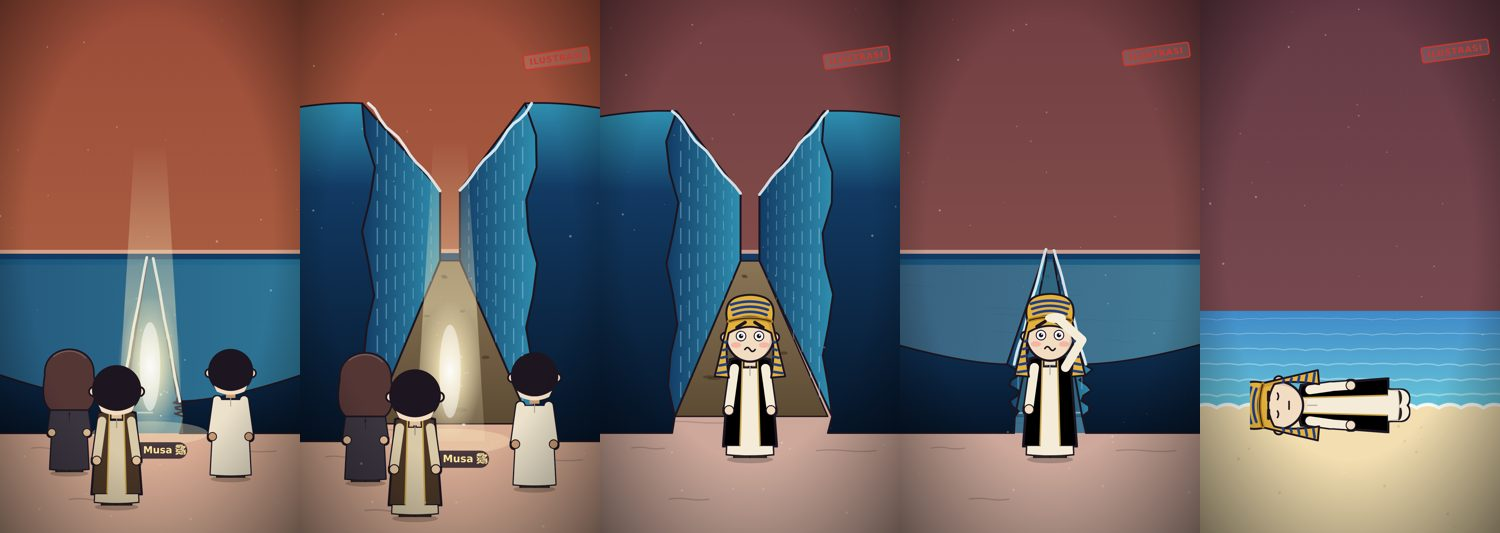
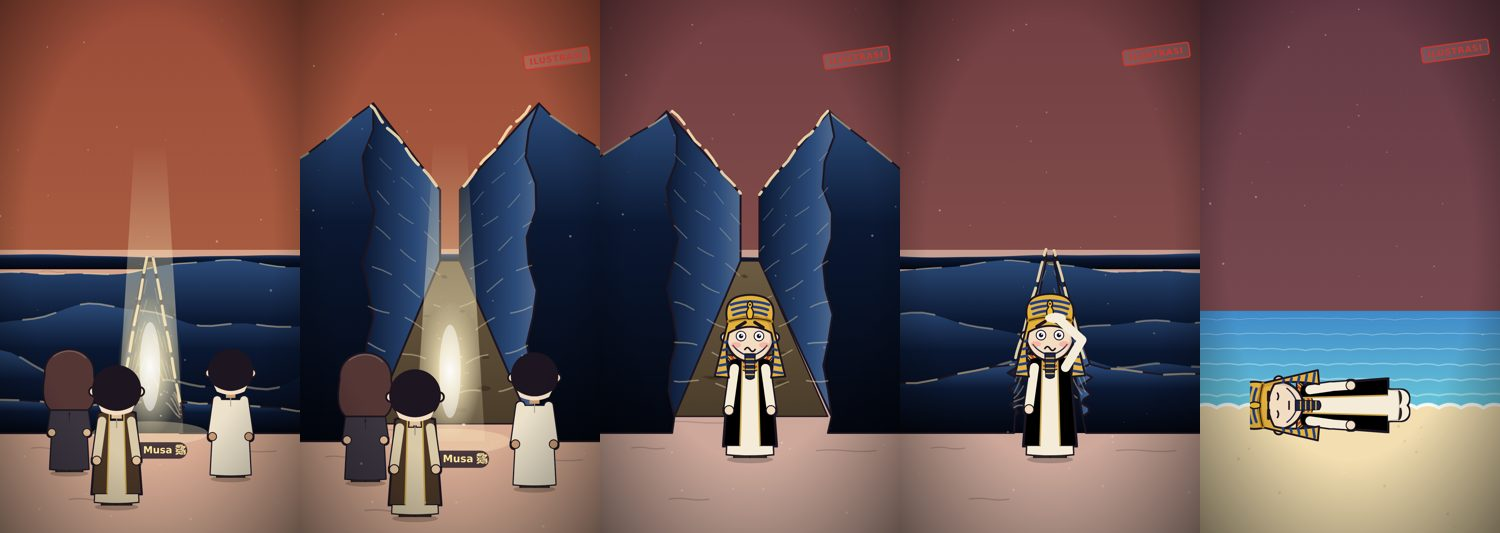
Firaun: laut bergaya ombak Nuh, kobra dahi, janggut upacara, kalung usekh
Claude-Session: https://claude.ai/code/session_013dPu6vGiEKgiUmxuK2ZYkK

diff --git a/mesin-video/papan/cerita.js b/mesin-video/papan/cerita.js
@@ -486,23 +486,27 @@
         const f = (xx) => yy - a * (0.62 * Math.sin(xx / L + t * sp + ph) + 0.28 * Math.sin(xx / (L * 0.41) - t * sp * 1.6 + ph * 2) + 0.1 * Math.sin(xx / (L * 0.17) + t * 2.3));
         let dd = `M -1400 ${f(-1400).toFixed(1)}`; for (let xx = -1360; xx <= 1400; xx += 40) dd += ` L ${xx} ${f(xx).toFixed(1)}`;
         g += `<path d="${dd} L 1400 2600 L -1400 2600 Z" fill="url(#${id})"/><path d="${dd}" stroke="${o.buih || "#ffe9b8"}" stroke-width="${5 + i * 1.5}" fill="none" opacity="${(0.55 - i * 0.08) * v(o.kilap, t, d, 1)}" stroke-linecap="round" stroke-dasharray="${90 + i * 30} ${70 + i * 25}" stroke-dashoffset="${(t * 40 * sp).toFixed(1)}"/>`; }
-    } else if (j === "laut_terbelah") { // laut terbelah dua (QS 26:63): lorong dasar laut kering di antara dua dinding air "laksana gunung", dilihat dari pangkal lorong; (0,0) = tengah pangkal lorong. belah 0-1 (0 = laut rata, 1 = terbelah penuh; turunkan lagi untuk dinding runtuh menutup), tinggi = tinggi dinding px di depan (bawaan 1100), lebar = lebar lorong di depan px (bawaan 560), jauh = jarak ke ujung lorong px (bawaan 560), warna [muka, dalam]
-      const bl = v(o.belah, t, d, 1), e = bl * bl * (3 - 2 * bl), Ht = (o.tinggi || 1100) * e, W2 = ((o.lebar || 560) / 2) * (0.35 + 0.65 * e), D = o.jauh || 560, w2 = 34 * (0.3 + 0.7 * e), Hj = Ht * 0.22, ca = o.warna || ["#123a63", "#2f8fb0"], id = "lt" + Math.round(x) + "_" + Math.round(y), R = rng(o.seed || 5);
-      g = `<defs><linearGradient id="${id}m" x1="0" y1="0" x2="0" y2="1"><stop offset="0" stop-color="${ca[1]}"/><stop offset=".25" stop-color="${ca[0]}"/><stop offset="1" stop-color="#06162a"/></linearGradient><linearGradient id="${id}d" x1="0" y1="0" x2="1" y2="0"><stop offset="0" stop-color="${ca[0]}"/><stop offset="1" stop-color="${ca[1]}"/></linearGradient><linearGradient id="${id}p" x1="0" y1="0" x2="0" y2="1"><stop offset="0" stop-color="#8a7556"/><stop offset="1" stop-color="#5c4a33"/></linearGradient></defs>`;
-      g += `<rect x="-1500" y="${-D - 26}" width="3000" height="40" fill="${ca[0]}"/>`; // laut di kejauhan, di ujung lorong
+    } else if (j === "laut_terbelah") { // laut terbelah dua (QS 26:63), gaya air sama dengan ombak kisah Nuh: lorong dasar laut kering di antara dua dinding air "laksana gunung", dilihat dari pangkal lorong; (0,0) = tengah pangkal lorong. belah 0-1 (0 = laut berombak rata, 1 = terbelah penuh; turunkan lagi = air runtuh menutup), tinggi = tinggi dinding px di depan (bawaan 1100), lebar = lebar lorong di depan (bawaan 560), jauh = jarak ke ujung lorong (bawaan 560), warna [atas, bawah], buih
+      const bl = v(o.belah, t, d, 1), e = bl * bl * (3 - 2 * bl), Ht = (o.tinggi || 1100) * e, W2 = ((o.lebar || 560) / 2) * (0.35 + 0.65 * e), D = o.jauh || 560, w2 = 34 * (0.3 + 0.7 * e), Hj = Ht * 0.22;
+      const ca = o.warna || ["#2b4a78", "#0b1832"], bu = o.buih || "#ffe9b8", id = "lt" + Math.round(x) + "_" + Math.round(y), R = rng(o.seed || 5);
+      const gel = (xx, ph, a, L, sp) => a * (0.62 * Math.sin(xx / L + t * sp + ph) + 0.28 * Math.sin(xx / (L * 0.41) - t * sp * 1.6 + ph * 2) + 0.1 * Math.sin(xx / (L * 0.17) + t * 2.3)); // rumus gelombang ombak Nuh
+      g = `<defs><linearGradient id="${id}a" x1="0" y1="0" x2="0" y2="1"><stop offset="0" stop-color="${ca[0]}"/><stop offset=".35" stop-color="${ca[1]}"/><stop offset="1" stop-color="#03060f"/></linearGradient><linearGradient id="${id}d" x1="0" y1="0" x2="1" y2="0"><stop offset="0" stop-color="${ca[1]}"/><stop offset=".7" stop-color="${ca[0]}"/><stop offset="1" stop-color="${warna(ca[0], "#ffffff", 0.18)}"/></linearGradient><linearGradient id="${id}p" x1="0" y1="0" x2="0" y2="1"><stop offset="0" stop-color="#6d5c43"/><stop offset="1" stop-color="#4a3c2a"/></linearGradient></defs>`;
+      let jauh = `M -1500 ${(-D - 20 + gel(-1500, 1, 8, 260, 0.8)).toFixed(1)}`; for (let xx = -1460; xx <= 1500; xx += 40) jauh += ` L ${xx} ${(-D - 20 + gel(xx, 1, 8, 260, 0.8)).toFixed(1)}`;
+      g += `<path d="${jauh} L 1500 ${-D + 30} L -1500 ${-D + 30} Z" fill="url(#${id}a)"/>`; // laut di ujung lorong
       g += `<path d="M ${-W2} 0 L ${-w2} ${-D} L ${w2} ${-D} L ${W2} 0 Z" fill="url(#${id}p)" stroke="${INK}" stroke-width="5" stroke-linejoin="round"/>`; // dasar laut yang kering
-      for (let i = 0; i < 9; i++) { const f = R(), yy = -D * f, ww = W2 + (w2 - W2) * f; g += `<ellipse cx="${(R() - 0.5) * 1.4 * ww}" cy="${yy}" rx="${(14 + R() * 18) * (1 - f * 0.7)}" ry="${(6 + R() * 6) * (1 - f * 0.7)}" fill="#3e3021" opacity=".55"/>`; } // batu dan genangan kecil
-      if (e < 0.98) g += `<path d="M ${-1500} ${-D - 6} L 1500 ${-D - 6} L 1500 60 L -1500 60 Z" fill="url(#${id}d)" opacity="${(1 - e).toFixed(3)}"/><path d="M -1500 ${-6 - 8 * Math.sin(t * 2)} Q 0 ${-24 * (1 - e)} 1500 ${-6 + 8 * Math.sin(t * 2)}" stroke="#d8f2ff" stroke-width="6" fill="none" opacity="${(0.6 * (1 - e)).toFixed(3)}" stroke-dasharray="120 80" stroke-dashoffset="${(t * 30).toFixed(1)}"/>`; // air yang menutup lorong
+      for (let i = 0; i < 10; i++) { const f = R(), ww = W2 + (w2 - W2) * f; g += `<ellipse cx="${((R() - 0.5) * 1.4 * ww).toFixed(1)}" cy="${(-D * f).toFixed(1)}" rx="${((14 + R() * 18) * (1 - f * 0.7)).toFixed(1)}" ry="${((5 + R() * 6) * (1 - f * 0.7)).toFixed(1)}" fill="#2f2619" opacity=".5"/>`; } // batu dan genangan
+      if (e < 0.98) { const tk = 1 - e; for (let i = 0; i < 3; i++) { const yy = -D + 30 + i * (D / 3), a = (40 + 30 * i) * tk; let dd = `M -1500 ${(yy - gel(-1500, i * 1.9, a, 260, 0.9 + i * 0.25)).toFixed(1)}`; for (let xx = -1460; xx <= 1500; xx += 40) dd += ` L ${xx} ${(yy - gel(xx, i * 1.9, a, 260, 0.9 + i * 0.25)).toFixed(1)}`;
+          g += `<path d="${dd} L 1500 60 L -1500 60 Z" fill="url(#${id}a)" opacity="${Math.min(1, tk * 1.6).toFixed(3)}"/><path d="${dd}" stroke="${bu}" stroke-width="${5 + i * 1.5}" fill="none" opacity="${((0.55 - i * 0.08) * tk).toFixed(3)}" stroke-linecap="round" stroke-dasharray="${90 + i * 30} ${70 + i * 25}" stroke-dashoffset="${(t * 40).toFixed(1)}"/>`; } } // laut berombak yang menutup lorong (sama dengan ombak Nuh)
       [-1, 1].forEach((sg) => { if (Ht < 4) return;
-        let tepi = ""; for (let k2 = 0; k2 <= 10; k2++) { const yy = -Ht * k2 / 10; tepi += ` L ${(sg * (W2 + (16 + 10 * k2 / 10) * Math.sin(k2 * 1.7 + t * 1.8 + sg))).toFixed(1)} ${yy.toFixed(1)}`; } // tepi depan dinding bergelombang
-        const muka = `M ${sg * w2} ${-D}${tepi} L ${sg * w2} ${-D - Hj} Z`,
-          luar = `M ${sg * W2} 60${tepi} Q ${sg * (W2 + 380)} ${-Ht * 1.02} ${sg * 1500} ${-D - Hj * 0.9} L ${sg * 1500} 60 Z`;
-        g += `<path d="${luar}" fill="url(#${id}m)" stroke="${INK}" stroke-width="6" stroke-linejoin="round"/>`; // tubuh air di sisi luar
-        g += `<path d="${muka}" fill="url(#${id}d)" stroke="${INK}" stroke-width="7" stroke-linejoin="round"/>`; // dinding air yang menghadap lorong
-        for (let k2 = 1; k2 < 8; k2++) { const f = k2 / 8, xa = sg * (W2 + (w2 - W2) * f), ya = -D * f, yb = -(Ht + (D + Hj - Ht) * f);
-          g += `<path d="M ${xa.toFixed(1)} ${yb.toFixed(1)} L ${xa.toFixed(1)} ${ya.toFixed(1)}" stroke="#bfeaff" stroke-width="${(5 * (1 - f * 0.6)).toFixed(1)}" opacity=".35" stroke-dasharray="${60 - 40 * f} ${40 - 20 * f}" stroke-dashoffset="${(-t * (80 - 50 * f)).toFixed(1)}" stroke-linecap="round"/>`; } // arus tertahan mengalir di permukaan dinding
+        let tepi = ""; for (let k2 = 0; k2 <= 12; k2++) { const yy = -Ht * k2 / 12; tepi += ` L ${(sg * (W2 + (14 + 12 * k2 / 12) * Math.sin(k2 * 1.7 + t * 1.8 + sg))).toFixed(1)} ${yy.toFixed(1)}`; } // tepi depan dinding bergolak
+        let atas = ""; for (let k2 = 1; k2 <= 16; k2++) { const xx = sg * (W2 + k2 * 70); atas += ` L ${xx.toFixed(1)} ${(-Ht * (1 - k2 / 22) - gel(xx, sg * 2, 26, 200, 1.1)).toFixed(1)}`; }
+        g += `<path d="M ${sg * W2} 60${tepi}${atas} L ${sg * 1500} 60 Z" fill="url(#${id}a)" stroke="${INK}" stroke-width="6" stroke-linejoin="round"/>`; // tubuh air di sisi luar, punggungnya berombak
+        g += `<path d="M ${sg * W2} ${-Ht}${atas}" stroke="${bu}" stroke-width="7" fill="none" opacity=".5" stroke-linecap="round" stroke-dasharray="110 80" stroke-dashoffset="${(t * 40).toFixed(1)}"/>`;
+        g += `<path d="M ${sg * w2} ${-D}${tepi} L ${sg * w2} ${-D - Hj} Z" fill="url(#${id}d)" stroke="${INK}" stroke-width="7" stroke-linejoin="round"/>`; // dinding air yang menghadap lorong
+        for (let k2 = 1; k2 <= 7; k2++) { const f = k2 / 8; let dd = ""; for (let m = 0; m <= 10; m++) { const u = m / 10, xa = sg * (W2 + (w2 - W2) * u), ya = -Ht * f * (1 - u) + (-D - Hj * f) * u - (-D * u) * (1 - f); dd += `${m ? " L" : "M"} ${xa.toFixed(1)} ${(ya + 10 * Math.sin(u * 7 + t * (1.2 + f) + k2)).toFixed(1)}`; }
+          g += `<path d="${dd}" stroke="${bu}" stroke-width="${(6 - 3 * f).toFixed(1)}" fill="none" opacity="${(0.42 - 0.2 * f).toFixed(2)}" stroke-linecap="round" stroke-dasharray="${90 - 40 * f} ${70 - 30 * f}" stroke-dashoffset="${(sg * t * (40 + 20 * f)).toFixed(1)}"/>`; } // lapisan gelombang yang tertahan tegak, buih seperti ombak Nuh
         let cr = `M ${sg * W2} ${-Ht}`; for (let k2 = 1; k2 <= 12; k2++) { const f = k2 / 12; cr += ` L ${(sg * (W2 + (w2 - W2) * f)).toFixed(1)} ${(-(Ht + (D + Hj - Ht) * f) - (10 - 7 * f) * Math.sin(t * 3 + k2 * 1.3 + sg)).toFixed(1)}`; }
-        g += `<path d="${cr}" stroke="#f2fbff" stroke-width="10" fill="none" stroke-linecap="round" stroke-linejoin="round" opacity=".85"/>`; // buih di puncak dinding
+        g += `<path d="${cr}" stroke="${bu}" stroke-width="10" fill="none" stroke-linecap="round" stroke-linejoin="round" opacity=".85" stroke-dasharray="70 26" stroke-dashoffset="${(t * 30).toFixed(1)}"/>`; // buih di puncak dinding
       });
     } else if (j === "bahtera") { // kapal Nabi Nuh dari papan dan pasak (QS 54:13), tampak samping; (0,0) = lunas. jadi 0-1 (rusuk -> papan -> rumah geladak), goyang (derajat), cahaya 0-1, orang n (siluet kecil di geladak), pintu 0-1 (+titian), darat (penyangga + bayangan)
       const jd = v(o.jadi, t, d, 1), gy = v(o.goyang, t, d, 0), ch = v(o.cahaya, t, d, 0.8), pt = v(o.pintu, t, d, 0), W = 460, H = 250, R = rng(11);
@@ -1734,6 +1738,10 @@
       for (let i = 0; i < 4; i++) s += `<circle cx="0" cy="${-370 + i * 30 + n}" r="5" fill="${G(0.45)}"/>`;
       if (P.motif === "bordir") for (let i = 0; i < 4; i++) s += `<path d="M -16 ${-372 + i * 30 + n} q 6 -8 12 0 M 4 ${-372 + i * 30 + n} q 6 -8 12 0" stroke="${P.bordir || "#c9a24a"}" stroke-width="3" fill="none"/>`;
     }
+    if (P.kalung === "usekh") { // kalung lebar raja Mesir kuno: pita setengah lingkaran berlapis emas-biru-merah di bahu dan dada
+      [["#e2b13c", 0], ["#1f3f8a", 15], ["#e2b13c", 28], ["#b8402e", 41], ["#e2b13c", 52]].forEach(([c, r]) => { s += `<path d="M ${-34 - r} ${-404 + n} Q 0 ${-370 + n + r * 1.4} ${34 + r} ${-404 + n}" fill="none" stroke="${c}" stroke-width="13" stroke-linecap="round"/>`; });
+      s += `<path d="M -88 ${-404 + n} Q 0 ${-290 + n} 88 ${-404 + n}" fill="none" stroke="${INK}" stroke-width="4"/>`;
+    }
     if (P.handuk) { const H = P.handuk; s += `<path d="M -56 ${-398 + n} Q 0 ${-366 + n} 56 ${-398 + n}" stroke="${H}" stroke-width="24" fill="none" stroke-linecap="round"/><rect x="28" y="${-402 + n}" width="30" height="104" rx="8" fill="${H}" stroke="${warna(H, "#000000", 0.3)}" stroke-width="3" transform="rotate(-6 43 ${-400 + n})"/><path d="M 28 ${-310 + n} l 30 -3" stroke="#e03131" stroke-width="5" transform="rotate(-6 43 ${-400 + n})"/>`; }
     return s;
   }
@@ -2147,12 +2155,18 @@
         else if (rb === "belah") k += `<path d="M -76 -2 C -86 -96, 84 -104, 76 -2 C 70 -50, 30 -66, 8 -70 L 0 -40 L -8 -70 C -30 -66, -70 -50, -76 -2 Z" fill="${RB}"/>`;
         if (b.janggut) {
           const jb = b.janggut_model || "pendek";
+          if (jb === "firaun") { // janggut upacara raja Mesir kuno: sempit, panjang, berpilin
+            k += `<path d="M -16 58 L 16 58 L 13 132 Q 0 142 -13 132 Z" fill="${b.janggut === true ? "#1d2747" : b.janggut}" stroke="${INK}" stroke-width="4"/>`;
+            for (let i = 0; i < 4; i++) k += `<line x1="-14" y1="${74 + i * 16}" x2="14" y2="${74 + i * 16}" stroke="#e2b13c" stroke-width="4"/>`;
+            k += `<path d="M -16 60 Q -40 50 -54 30 M 16 60 Q 40 50 54 30" stroke="#1d2747" stroke-width="4" fill="none"/>`; // tali pengikat ke telinga
+          } else {
           const janggutD = jb === "tipis"
             ? "M -58 30 Q 0 58 58 30 Q 36 54 0 52 Q -36 54 -58 30 Z"
             : jb === "panjang"
               ? "M -58 30 C -50 92, 50 92, 58 30 L 46 92 Q 0 138 -46 92 Z"
               : "M -58 30 C -50 92, 50 92, 58 30 C 40 70, -40 70, -58 30 Z";
           k += `<path d="${janggutD}" fill="${b.janggut === true ? RB : b.janggut}"/>`;
+          }
         }
         if (b.keriput) k += `<path d="M -40 -46 q 10 -4 20 0 M 20 -46 q 10 -4 20 0 M -58 22 q 4 8 10 10 M 58 22 q -4 8 -10 10" fill="none" stroke="${INK}" stroke-width="3" opacity=".5"/>`;
       }
@@ -2193,6 +2207,7 @@
         k += `<path d="M 58 -52 Q 44 -118 -20 -116 Q -92 -108 -96 -30 Q -100 40 -92 112 L -34 116 Q -46 50 -30 -4 Q -10 -40 58 -52 Z" fill="${WN}" stroke="${INK}" stroke-width="6" stroke-linejoin="round"/>`;
         for (let i = 0; i < 5; i++) { const yy = -70 + i * 36; k += `<path d="M -88 ${yy} Q -66 ${yy - 8} ${-44 - (i > 1 ? 4 : 0)} ${yy + 2}" stroke="${GN}" stroke-width="8" fill="none" stroke-linecap="round"/>`; } // garis di sayap kain belakang
         k += `<path d="M 60 -54 Q 0 -70 -84 -48" stroke="${GN}" stroke-width="10" fill="none" stroke-linecap="round"/><path d="M -96 -20 Q -112 30 -104 70" stroke="${INK}" stroke-width="12" fill="none" stroke-linecap="round"/>`;
+        if (b.ureus !== false) k += `<path d="M 50 -54 Q 66 -70 58 -86 Q 74 -92 70 -102 Q 58 -100 50 -90 Q 40 -74 42 -56 Z" fill="#e8b934" stroke="${INK}" stroke-width="4" stroke-linejoin="round"/>`; // kobra di dahi dari samping
       }
       else if (b.penutup_kepala === "mahkota") // mahkota emas raja dari samping
         k += `<path d="M -70 -56 L 60 -56 L 66 -104 L 34 -82 L 4 -122 L -26 -82 L -62 -108 Z" fill="${b.warna_penutup || "#e8b934"}" stroke="${INK}" stroke-width="6" stroke-linejoin="round"/><rect x="-72" y="-66" width="136" height="16" rx="5" fill="#b8841c" stroke="${INK}" stroke-width="4"/><circle cx="-4" cy="-58" r="6" fill="#c0392b" stroke="${INK}" stroke-width="2"/>`;
@@ -2210,6 +2225,7 @@
         [-1, 1].forEach((sg) => { for (let i = 0; i < 5; i++) { const yy = 18 + i * 24, lu = 70 + ((yy + 40) / 168) * 40 - 6, da = 72 + (i > 2 ? 2 : 0); k += `<path d="M ${sg * da} ${yy} L ${sg * lu} ${yy + 4}" stroke="${GN}" stroke-width="8" stroke-linecap="round"/>`; } }); // garis di dalam sayap kain
         for (let i = 0; i < 4; i++) k += `<path d="M ${-60 + i * 4} ${-96 + i * 16} Q 0 ${-116 + i * 16} ${60 - i * 4} ${-96 + i * 16}" stroke="${GN}" stroke-width="8" fill="none" stroke-linecap="round"/>`;
         k += `<path d="M -66 -44 Q 0 -64 66 -44" stroke="#b8841c" stroke-width="12" fill="none" stroke-linecap="round"/><path d="M -66 -44 Q 0 -64 66 -44" stroke="${INK}" stroke-width="3" fill="none"/>`;
+        if (b.ureus !== false) k += `<path d="M -6 -52 Q -16 -74 -4 -86 Q -14 -98 0 -108 Q 14 -98 4 -86 Q 16 -74 6 -52 Z" fill="#e8b934" stroke="${INK}" stroke-width="4" stroke-linejoin="round"/><circle cx="0" cy="-96" r="3" fill="${INK}"/>`; // kobra kecil di dahi, ciri hiasan raja Mesir kuno
       } else if (b.penutup_kepala === "mahkota") { // mahkota emas raja: pita dan lima puncak
         const WM = b.warna_penutup || "#e8b934";
         k += `<path d="M -70 -58 L 70 -58 L 82 -116 L 44 -88 L 22 -130 L 0 -92 L -22 -130 L -44 -88 L -82 -116 Z" fill="${WM}" stroke="${INK}" stroke-width="6" stroke-linejoin="round"/><rect x="-74" y="-70" width="148" height="18" rx="6" fill="#b8841c" stroke="${INK}" stroke-width="4"/>`;

diff --git a/newmotion/application/kemampuan_tokoh.py b/newmotion/application/kemampuan_tokoh.py
@@ -51,8 +51,8 @@ def teks_kemampuan_tokoh(jalur: Path = CERITA_JS) -> str:
         f"- benda yang dapat dipegang: {', '.join(k['pegang'])}",
         f"- bisa dinaiki/diduduki (kait): {kait}. Tokoh menempel otomatis: duduk di jok, tangan di setang, kaki di pijakan",
         (f"- penutup_kepala tokoh: {', '.join(k['penutup_kepala'])} (warna_penutup opsional). "
-         "nemes = kain kepala bergaris raja Mesir kuno; mahkota = mahkota emas raja. "
-         'Pakaian raja: pakaian {"jenis": "jubah", "bisht": true}. Jasad/tak bernyawa: pose rebahan + mata "tutup", tanpa luka'),
+         "nemes = kain kepala bergaris raja Mesir kuno (+ kobra kecil di dahi; ureus: false untuk membuang); mahkota = mahkota emas raja. "
+         'Raja Mesir kuno/Firaun: penutup_kepala "nemes" + janggut true + janggut_model "firaun" + pakaian {"jenis": "jubah", "bisht": true, "kalung": "usekh"}. Jasad/tak bernyawa: pose rebahan + mata "tutup", tanpa luka'),
         (f"- suku figuran: {', '.join(SUKU)}. arab = laki-laki berjubah dengan imamah/ghutrah/peci (sebagian berbisht), "
          "perempuan berkerudung dan abaya gelap"),
     ])

diff --git a/docs/log_kerja/2026-11-27-2130-tugas-8-firaun.md b/docs/log_kerja/2026-11-27-2130-tugas-8-firaun.md
@@ -18,3 +18,11 @@ Catatan jujur: alat `pembuat_komponen.py` (LLM) hanya membuat benda; dua dari ti
 bukan benda, jadi dibuat tangan. Draf berikutnya yang berupa benda tetap boleh lewat alat itu.
 Sisa terbuka: runtuhnya dinding (belah turun) masih terbaca sebagai dinding mengecil, belum air jatuh; cukup untuk
 draf, bisa diperhalus bila pemilik meminta.
+
+## Revisi pemilik (27 Nov, 14.18)
+- Air `laut_terbelah` kini memakai gaya ombak kisah Nuh: rumus gelombang, palet `#2b4a78 → #0b1832`, buih krem putus-putus
+  bergerak. Saat `belah` turun, lorong ditutup laut berombak yang naik (bukan dinding mengecil).
+- Ciri Firaun dari ikonografi raja Mesir kuno (dicari sendiri, bukan meniru karya tertentu): kobra kecil di dahi nemes
+  (`ureus`, bisa dimatikan), janggut upacara (`janggut_model: "firaun"`), kalung lebar (`pakaian.kalung: "usekh"`).
+  Dada tetap tertutup jubah (adab berpakaian), tidak memakai kain pinggang terbuka.
+- Bukti: `bukti/firaun-komponen.jpg`, `bukti/firaun-dalam-lorong.jpg`, `bukti/firaun-penutup-kepala.jpg`.
